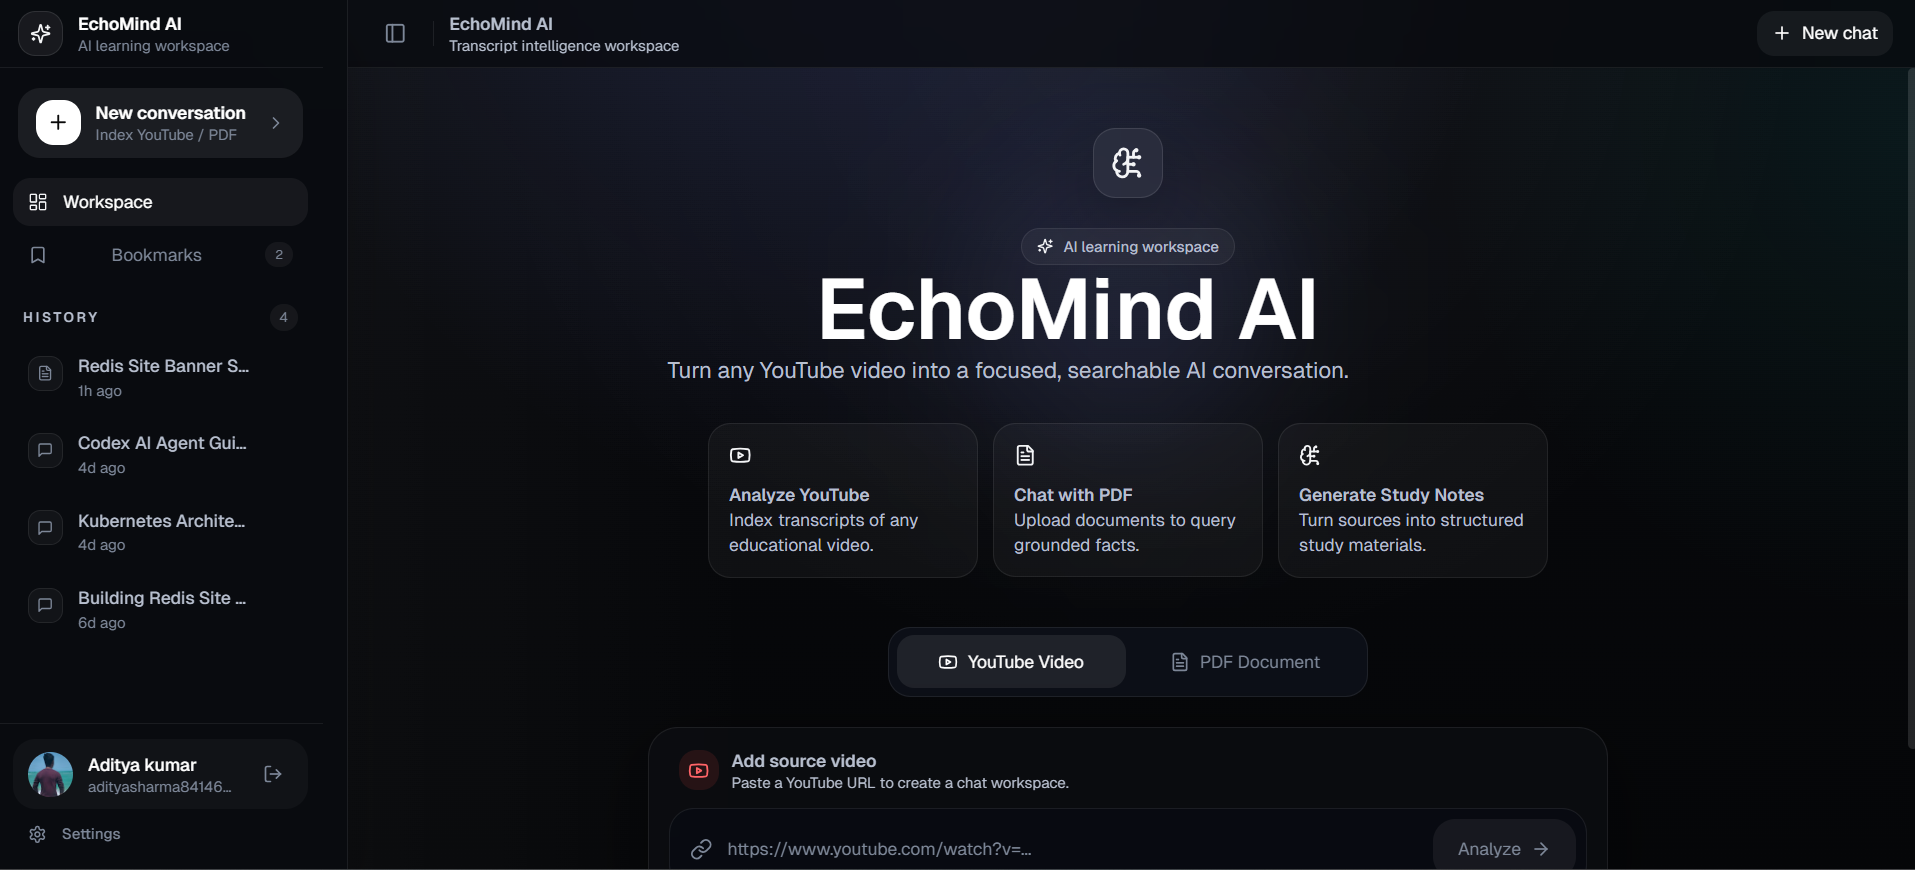
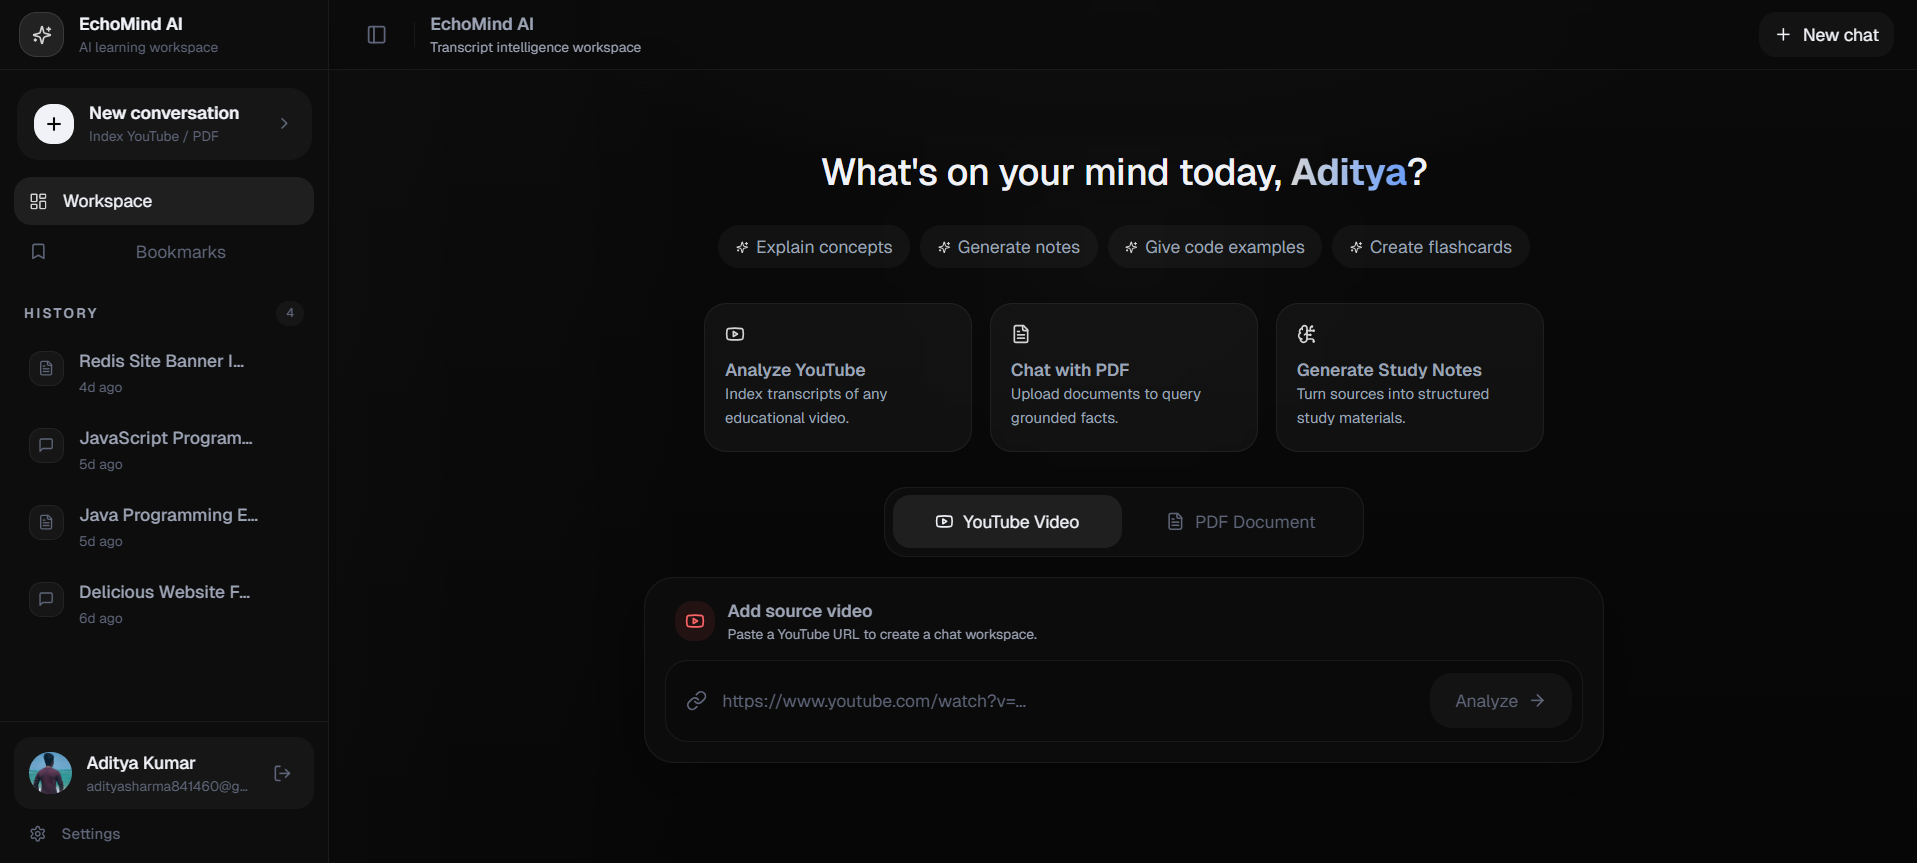
fix(GreetingHero): update text gradient color for improved visibility

diff --git a/frontend/src/components/chat/GreetingHero.tsx b/frontend/src/components/chat/GreetingHero.tsx
@@ -86,7 +86,7 @@ export function GreetingHero() {
         className="text-xl sm:text-2xl md:text-3xl font-medium tracking-tight text-center w-full max-w-full md:max-w-3xl leading-snug break-words px-1"
       >
         {parsedGreeting.before}
-        <span className="bg-gradient-to-r from-[var(--accent)] to-[var(--accent-strong)] bg-clip-text text-transparent font-semibold">
+        <span className="bg-gradient-to-r from-[var(--accent)] to-[#6B9EF7] bg-clip-text text-transparent font-bold">
           {userName}
         </span>
         {parsedGreeting.after}
